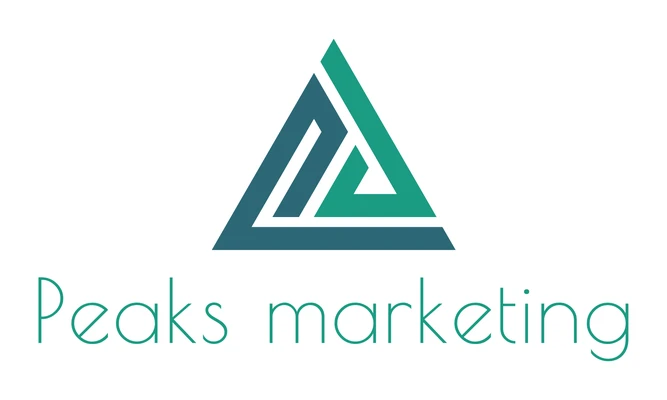
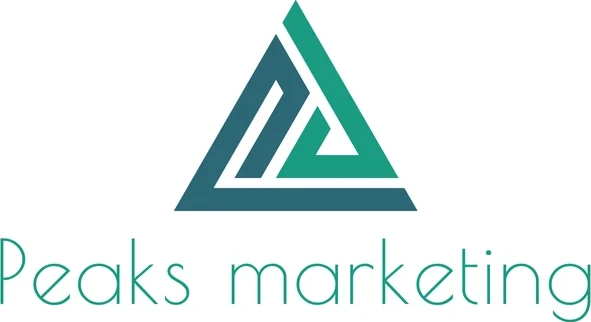
スポンサーロゴ4つの見た目の大きさをそろえる

Changed region(s): [[0.2741, 0.0, 1.0, 1.0], [0.0, 0.6832, 0.3655, 0.9627]]

diff --git a/assets/css/style.css b/assets/css/style.css
@@ -815,10 +815,11 @@ html:has(.subpage) { scroll-padding-top: 82px; }
 /* 現在のスポンサー：白いカードにロゴを中央配置。Re:SHAL はロゴの赤背景とつなげる */
 .partners .sponsor-block-head { margin-top: 64px; }
 .partner-logos { display: grid; grid-template-columns: repeat(4,1fr); gap: 10px; margin-top: 26px; }
-.partner-logos li { display: flex; height: 150px; align-items: center; justify-content: center; padding: 22px; background: #fff; }
-.partner-logos img { display: block; width: auto; height: auto; max-width: 84%; max-height: 106px; }
-.partner-logos .partner-logo-red { padding: 0; background: #f00; }
-.partner-logos .partner-logo-red img { width: 100%; height: 100%; max-width: none; max-height: none; object-fit: contain; }
+/* ロゴの見た目の大きさをそろえる：画像は余白を切り詰めておき、
+   各 li の --logo-w（基準サイズの何倍の幅か）で、見た目の存在感が同じくらいになるよう調整 */
+.partner-logos { --logo-base: 66px; }
+.partner-logos li { display: flex; height: 150px; align-items: center; justify-content: center; padding: 18px; background: #fff; }
+.partner-logos img { display: block; width: calc(var(--logo-base) * var(--logo-w, 2)); max-width: 100%; height: auto; }
 
 /* 小見出し（プラン・流れ） */
 .sponsor-block-head { margin-top: 90px; }
@@ -1095,8 +1096,8 @@ footer p,footer > a:last-child { color: #777; font: 500 9px/1 'Barlow Condensed'
   .sponsor-block-head { margin-top: 60px; }
   .partners .sponsor-block-head { margin-top: 48px; }
   .partner-logos { grid-template-columns: 1fr 1fr; gap: 8px; margin-top: 20px; }
-  .partner-logos li { height: 104px; padding: 14px; }
-  .partner-logos img { max-height: 76px; }
+  .partner-logos { --logo-base: 48px; }
+  .partner-logos li { height: 104px; padding: 12px; }
   .sponsor-block-head h3 { font-size: 24px; }
   .flow-steps { grid-template-columns: 1fr; }
   .flow-steps > li,.flow-steps > li:first-child { min-height: 0; padding: 22px 4px 26px; border: 0; border-bottom: 1px solid #3b3b3e; }

diff --git a/index.html b/index.html
@@ -282,10 +282,10 @@
           <h3>SAIGOを支えるスポンサー</h3>
         </div>
         <ul class="partner-logos">
-          <li><img src="assets/images/partner-1-first-air.webp" alt="First Air Inc." loading="lazy" decoding="async" width="800" height="138"></li>
-          <li class="partner-logo-red"><img src="assets/images/partner-2-reshal.webp" alt="Re:SHAL" loading="lazy" decoding="async" width="699" height="400"></li>
-          <li><img src="assets/images/partner-3-peaks.webp" alt="Peaks marketing" loading="lazy" decoding="async" width="667" height="400"></li>
-          <li><img src="assets/images/partner-4-fukutsukuru.webp" alt="服作る人（@FUKUTSUKURU_HITO）" loading="lazy" decoding="async" width="800" height="290"></li>
+          <li style="--logo-w: 2.45"><img src="assets/images/partner-1-first-air.webp" alt="First Air Inc." loading="lazy" decoding="async" width="754" height="92"></li>
+          <li class="partner-logo-red" style="--logo-w: 1.75"><img src="assets/images/partner-2-reshal.webp" alt="Re:SHAL" loading="lazy" decoding="async" width="699" height="400"></li>
+          <li style="--logo-w: 1.95"><img src="assets/images/partner-3-peaks.webp" alt="Peaks marketing" loading="lazy" decoding="async" width="591" height="322"></li>
+          <li style="--logo-w: 2.1"><img src="assets/images/partner-4-fukutsukuru.webp" alt="服作る人（@FUKUTSUKURU_HITO）" loading="lazy" decoding="async" width="744" height="234"></li>
         </ul>
       </div>
 

diff --git a/README.md b/README.md
@@ -133,7 +133,8 @@ python3 -m http.server 8000
 `index.html` の `.partner-logos` に `<li><img …></li>` を1行追加します（並び順＝表示順）。
 
 - ロゴ画像は `assets/images/partner-番号-名前.webp`。余白を詰めて切り取り、横幅 800px 程度にしてから置く
-- 白いカードの中央に表示されます。背景色つきのロゴ（Re:SHAL の赤など）は、`<li>` にクラスを付けてカードの背景色をロゴと同じ色にする（`.partner-logo-red` 参照）
+- 画像のまわりの白い余白は完全に切り落とす（余白が残っていると、そのぶん小さく見える）。背景色つきのロゴ（Re:SHAL の赤など）は色の部分をそのまま残す
+- 白いカードの中央に表示されます。見た目の大きさは `<li style="--logo-w: 2">` の数字で調整（基準サイズの何倍の幅か）。横長のロゴは小さめ（2.4 前後）、正方形に近いロゴや線の細いロゴは大きめにすると、並べたときの存在感がそろいます
 - .ai / .pdf のロゴは、Mac なら `qlmanage -t -s 3000 -o 出力先 ファイル.pdf` で PNG にできます（.ai は PDF 互換で保存されている場合）
 
 ### 次戦情報を変更する
